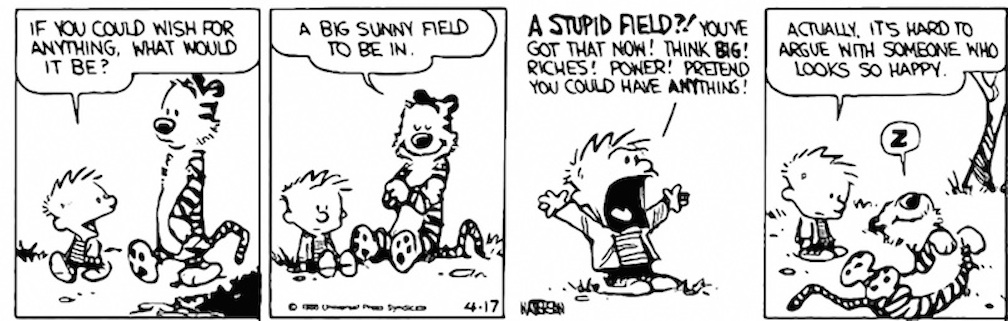
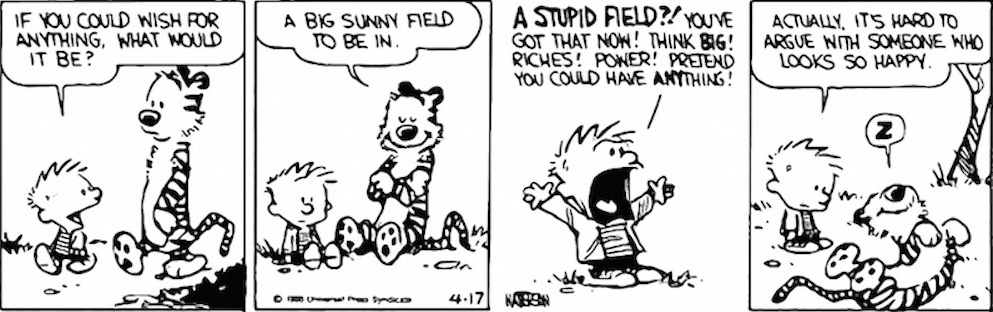
update picture, gemfile, crop some images, and minor copy edits

diff --git a/index.html b/index.html
@@ -20,7 +20,7 @@ layout: default
 
         <p>I'm Eric, and I'm currently a Software Engineer at Airtable.</p>
         <p>Before joining Airtable, I was a Software Engineer at Dropbox. I graduated from UC Berkeley in May 2016 with a degree in Electrial Engineering and Computer Sciences.</p>
-        <p>In my free time, I love to play basketball, frisbee, and soccer, read up on current events, and explore new restaurants.</p>
+        <p>In my free time, I love to play soccer, run, travel, and explore new restaurants.</p>
         <p>You can contact me at {{ site.email }}.</p>
         <p>
           <a href="{{ site.linkedinlink }}" class="btn btn-primary" role="button">LinkedIn</a>
@@ -42,7 +42,7 @@ layout: default
       <div class="col-md-10 col-md-offset-1">
         <h3 class="header-less-weight">BizWorld</h3>
         <p>
-          <a href="http://www.bizworld.org/">BizWorld</a> is a non-profit that provides educational materials on entrepreneurship to help inspire students to become architects of their future. As a member of <a href="http://www.calblueprint.org/">Cal Blueprint</a>, I worked on the administrator flow for a Rails app that will help BizWorld educators manage their classrooms. The repository for the source code is located <a href="https://github.com/calblueprint/bizworld">here</a>.
+          <a href="http://www.bizworld.org/">BizWorld</a> is a non-profit that provides educational materials on entrepreneurship to help inspire students to become architects of their future. As a member of <a href="http://www.calblueprint.org/">Cal Blueprint</a>, we built the administrator flow for a Rails app that helps BizWorld educators manage their classrooms. The repository for the source code is located <a href="https://github.com/calblueprint/bizworld">here</a>.
         </p>
       </div>
     </div>
@@ -50,7 +50,7 @@ layout: default
       <div class="col-md-10 col-md-offset-1">
         <h3 class="header-less-weight">Re-volv</h3>
         <p>
-          <a href="http://www.re-volv.org/">Re-volv</a> is a non-profit that strives to empower people and communities to invest collectively in renewable energy. As a member of <a href="http://www.calblueprint.org/">Cal Blueprint</a>, I helped work on a Django crowdfunding web application for them. The repository for the source code is located <a href="https://github.com/calblueprint/Revolv">here</a>.
+          <a href="http://www.re-volv.org/">Re-volv</a> is a non-profit that strives to empower people and communities to invest collectively in renewable energy. As a member of <a href="http://www.calblueprint.org/">Cal Blueprint</a>, we built a Django crowdfunding web application for them. The repository for the source code is located <a href="https://github.com/calblueprint/Revolv">here</a>.
         </p>
       </div>
     </div>
@@ -60,8 +60,7 @@ layout: default
         <p>
           Learn Algebra and Learn Algebra 2 are educational Android Applications that provide lessons, randomly generated practice 
           problems, quick notes, and statistics for any person trying to learn or refresh on Algebra.
-          I worked on these applications as a part of <a href="http://exequals.org/">ExEquals</a>, a group that some high school friends and I formed in 
-          the summer of 2012. 
+          I worked on these applications as a part of <a href="http://exequals.org/">ExEquals</a>. 
         </p>
       </div>
     </div>
@@ -106,13 +105,7 @@ layout: default
     <div class="row">
       <div class="col-md-10 col-md-offset-1 first-col">
         <h2 class="header-less-weight">Miscellaneous</h2>
-        <p>Just some comics, pictures, and quotes that I have run across over the years. Enjoy!</p>
-      </div>
-    </div>
-    <div class="row">
-      <div class="col-md-10 col-md-offset-1">
-        <h3 class="header-less-weight">Master Oogway (Kung Fu Panda)</h3>
-        <img src="img/miscellaneous/oogwaypresent.jpg" class="img-responsive"></img>
+        <p>Just some comics and pictures that I have run across over the years. Enjoy!</p>
       </div>
     </div>
     <div class="row">

diff --git a/README.md b/README.md
@@ -1,3 +1,5 @@
 # erictshen.github.io
 Eric Shen's personal website.
 Live at <a href="http://ericshen.com/">http://ericshen.com//</a>
+
+See https://docs.github.com/en/pages/setting-up-a-github-pages-site-with-jekyll/testing-your-github-pages-site-locally-with-jekyll for how to develop locally.
